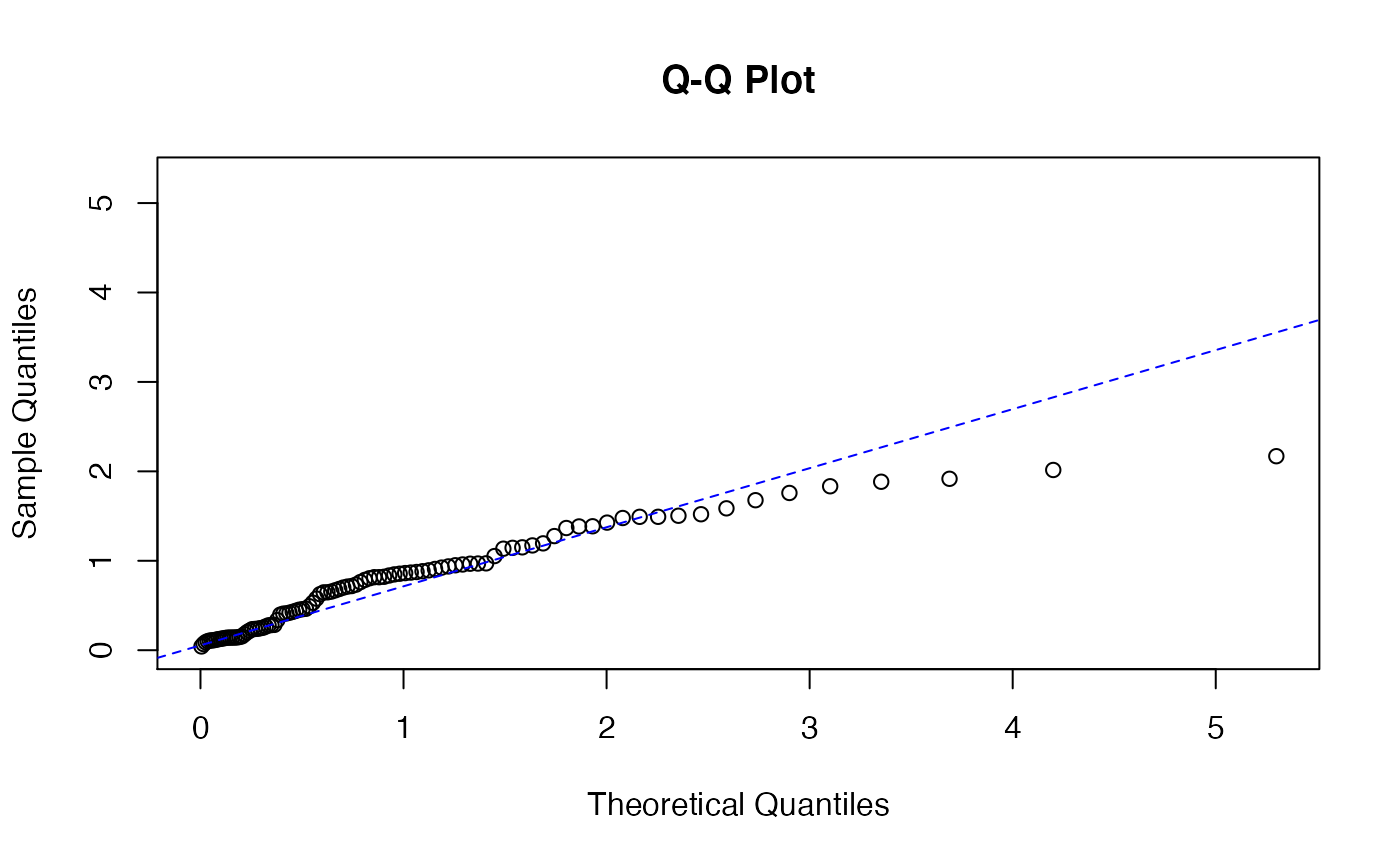
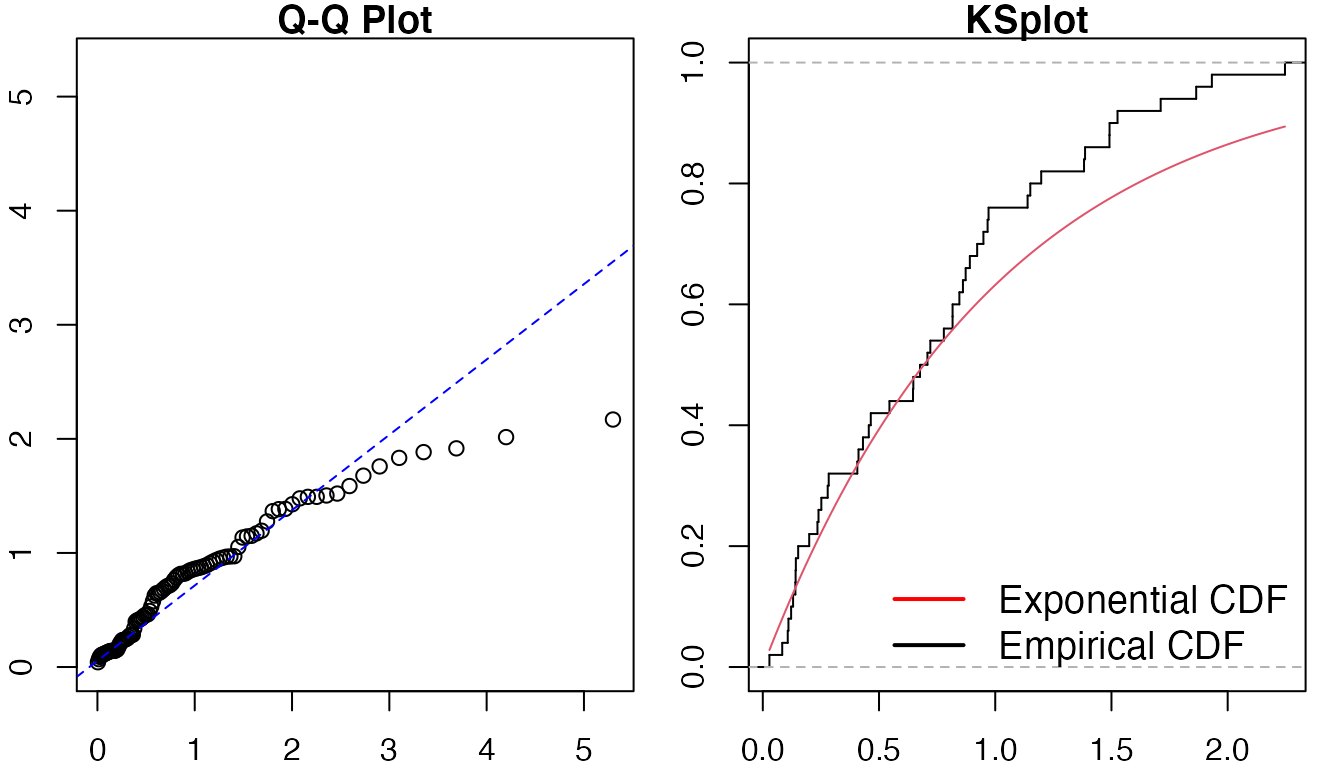
Built site for ppdiag: 0.0.0.9000@27609d7

diff --git a/articles/ppdiag.html b/articles/ppdiag.html
@@ -366,7 +366,7 @@ regardless of --> <!-- the end time specified.  --></p>
 <p><code><a href="../reference/diagpp.html">diagpp(object, events, pzt = NULL)</a></code> gives diagnostics of the model, including a qq plot, a ks plot, ks test, raw and pearson residuals in one function.</p>
 <div class="sourceCode" id="cb18"><pre class="downlit sourceCode r">
 <code class="sourceCode R"><span class="fu"><a href="../reference/diagpp.html">diagpp</a></span><span class="op">(</span><span class="va">hpp_obj</span>,<span class="va">hpp_events</span><span class="op">)</span></code></pre></div>
-<p><img src="ppdiag_files/figure-html/unnamed-chunk-18-1.png" width="384"><img src="ppdiag_files/figure-html/unnamed-chunk-18-2.png" width="384"></p>
+<p><img src="ppdiag_files/figure-html/unnamed-chunk-18-1.png" width="672"></p>
 <pre><code>#&gt; 
 #&gt; Raw residual: 9
 #&gt; Pearson residual: -0.2932067
@@ -395,7 +395,7 @@ regardless of --> <!-- the end time specified.  --></p>
 <p><code><a href="../reference/diagpp.html">diagpp(object, events)</a></code> gives diagnostics of the model, including a qq plot, a ks plot, ks test, raw and pearson residuals in one function.</p>
 <div class="sourceCode" id="cb23"><pre class="downlit sourceCode r">
 <code class="sourceCode R"><span class="fu"><a href="../reference/diagpp.html">diagpp</a></span><span class="op">(</span><span class="va">hp_obj</span>,<span class="va">hp_events</span><span class="op">$</span><span class="va">events</span><span class="op">)</span></code></pre></div>
-<p><img src="ppdiag_files/figure-html/unnamed-chunk-22-1.png" width="384"><img src="ppdiag_files/figure-html/unnamed-chunk-22-2.png" width="384"></p>
+<p><img src="ppdiag_files/figure-html/unnamed-chunk-22-1.png" width="672"></p>
 <pre><code>#&gt; Raw residual: -1.336609
 #&gt; Pearson residual: 3.967234
 #&gt; 
@@ -423,7 +423,7 @@ regardless of --> <!-- the end time specified.  --></p>
 <a href="#mmhp" class="anchor"></a>MMHP</h3>
 <div class="sourceCode" id="cb28"><pre class="downlit sourceCode r">
 <code class="sourceCode R"><span class="fu"><a href="../reference/diagpp.html">diagpp</a></span><span class="op">(</span><span class="va">mmhp_obj</span>,<span class="va">mmhp_events</span><span class="op">$</span><span class="va">events</span><span class="op">)</span></code></pre></div>
-<p><img src="ppdiag_files/figure-html/unnamed-chunk-26-1.png" width="700"><img src="ppdiag_files/figure-html/unnamed-chunk-26-2.png" width="700"></p>
+<p><img src="ppdiag_files/figure-html/unnamed-chunk-26-1.png" width="672"></p>
 <pre><code>#&gt; Raw residual: 18.00889
 #&gt; Pearson residual: 22.23203
 #&gt; 
